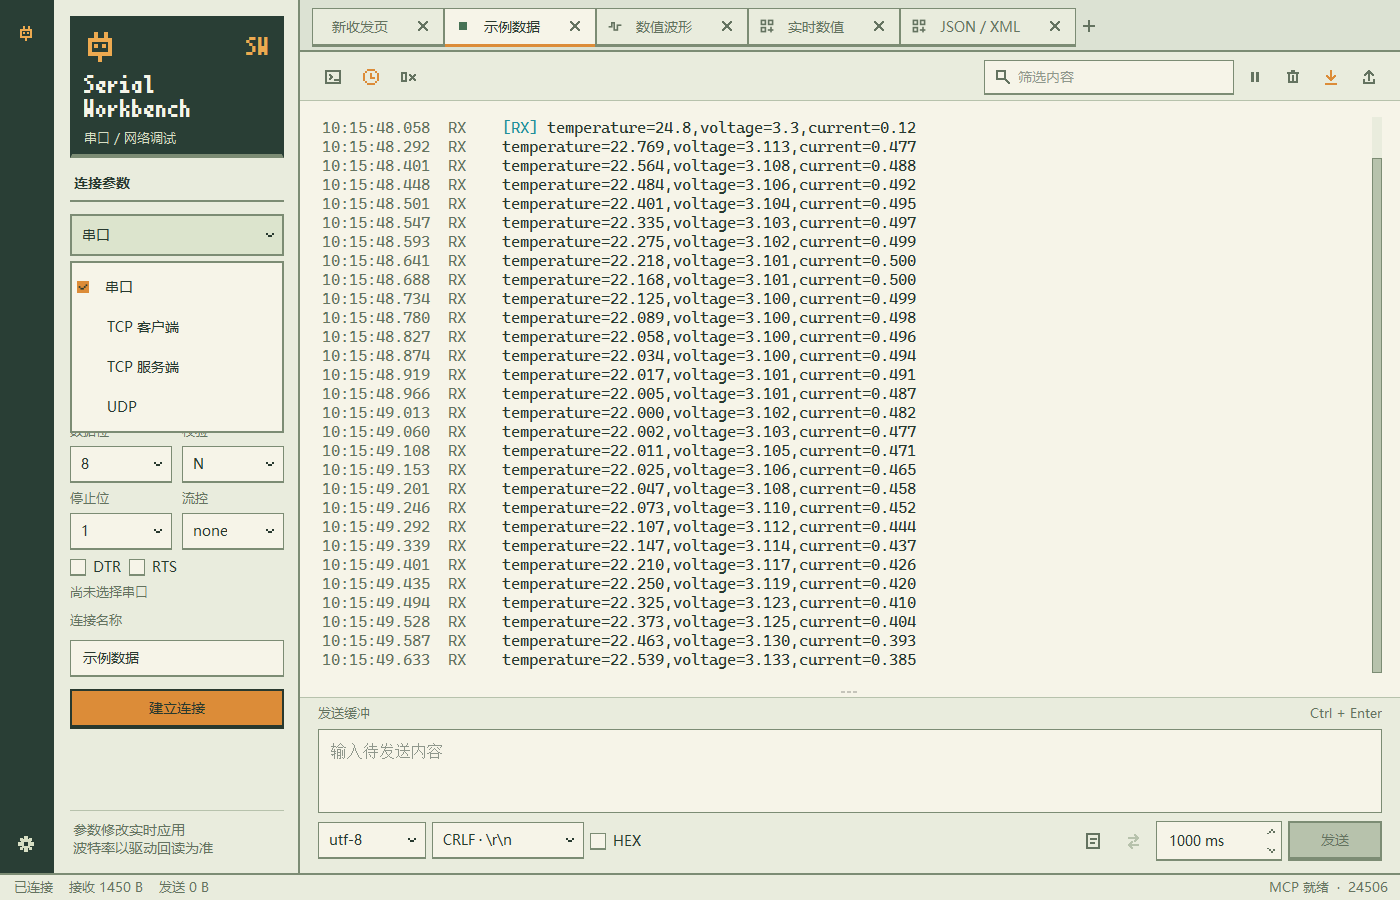
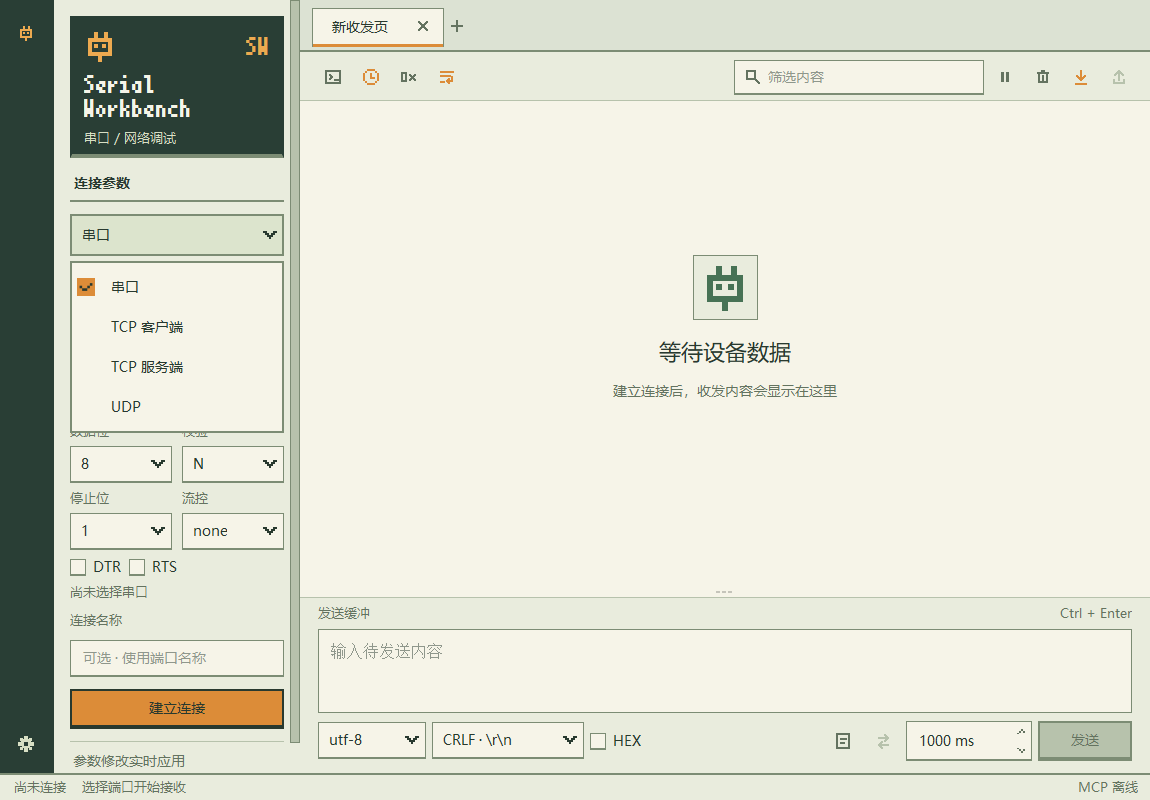
fix(ui): enlarge and center menu selection indicators

diff --git a/src/ui/controls.cpp b/src/ui/controls.cpp
@@ -212,7 +212,8 @@ QString Theme::stylesheet() const
         QMenu::item { padding: 10px 28px 10px 16px; border: 1px solid transparent; }
         QMenu::item:selected { background: $hover; border-color: $edge; }
         QMenu::separator { height: 1px; background: $line; margin: 5px 8px; }
-        QMenu::indicator:checked { image: url(:/icons/check.svg); background: $accent; width: 12px; height: 12px; }
+        QMenu::indicator { width: 18px; height: 18px; subcontrol-origin: padding; subcontrol-position: center left; image: none; background: transparent; }
+        QMenu::indicator:checked { image: url(:/icons/check.svg); background: $accent; }
         QCheckBox { spacing: 7px; background: transparent; }
         QCheckBox::indicator { width: 14px; height: 14px; border: 1px solid $edge; border-bottom-width: 2px; background: $panel; }
         QCheckBox::indicator:hover { border-color: $accent; }

diff --git a/README.md b/README.md
@@ -2,7 +2,7 @@
 
 一个面向嵌入式开发的 Windows 串口与网络调试助手。人在界面查看数据，Codex、Claude、OpenCode 等 AI 通过 MCP 同时读取同一份数据，无需再次打开串口。
 
-当前版本：0.11.3，Qt 6 / C++17 原生应用。桌面程序和 STDIO 桥均不依赖 Python 运行时。
+当前版本：0.11.4，Qt 6 / C++17 原生应用。桌面程序和 STDIO 桥均不依赖 Python 运行时。
 
 ![像素掌机主题工作台](docs/pixel-workspace.png)
 
@@ -232,7 +232,7 @@ $env:MINGW_BIN = 'D:/lib/Qt/Tools/mingw1310_64/bin'
 .\scripts\build.ps1
 
 # 打包后的 HTTP / STDIO 集成测试，需要 Python MCP SDK
-.\.venv\Scripts\python.exe tests/integration/smoke_native.py --expected-version 0.11.3
+.\.venv\Scripts\python.exe tests/integration/smoke_native.py --expected-version 0.11.4
 ```
 
 测试覆盖独立读取与分页、真实 TCP/UDP socket、软件串口回环及重配置、UTF-8/GBK 分片解析、ANSI 颜色与终端、连接标签和布局、设置恢复、MCP HTTP/STDIO、权限、非阻塞等待和错误参数。实际 COM 硬件、USB 设备的实际线速及各 AI 客户端的完整对话需要在对应环境验证。

diff --git a/docs/project-structure.md b/docs/project-structure.md
@@ -69,7 +69,7 @@ cmake --install build/custom --prefix dist/install
 .\scripts\build.ps1
 # 工具不在 PATH 时可指定 -CMake / -Ninja；可选 -Jobs / -BuildDir / -PackageDir
 # 只编译测试：-SkipPackage；仅构建生产目标：-SkipTests
-.\.venv\Scripts\python.exe tests/integration/smoke_native.py --expected-version 0.11.3
+.\.venv\Scripts\python.exe tests/integration/smoke_native.py --expected-version 0.11.4
 ```
 
 脚本可从任何工作目录调用，结束时恢复原工作目录和 PATH。替换分发包前会检查其中的程序是否仍运行。
